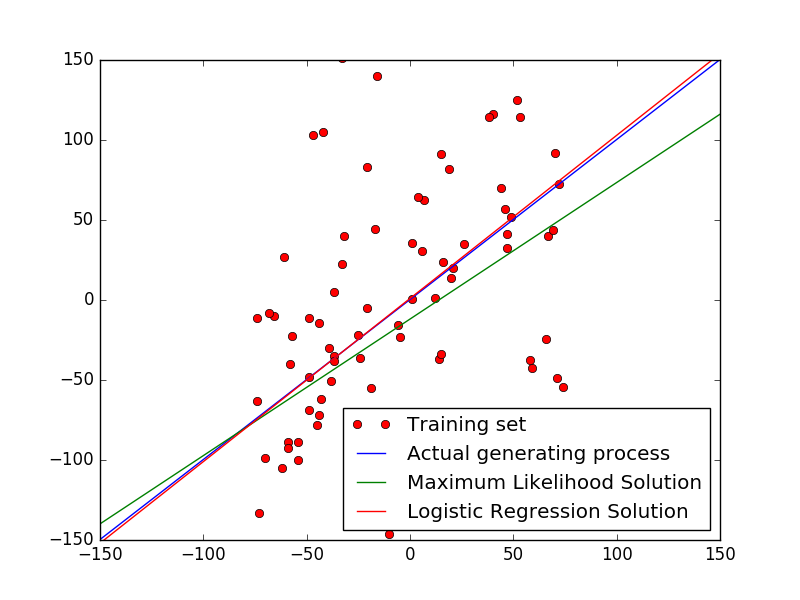
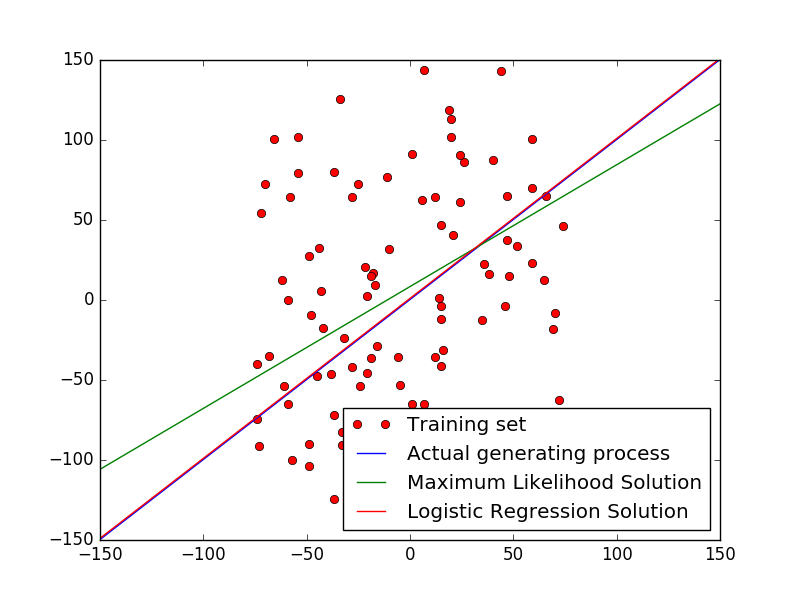
- refined logistic regression comparison

diff --git a/digits.py b/digits.py
@@ -391,9 +391,12 @@ def gen_lin_data_1d(theta, N, sigma):
 
     # Actual data generation
     random.seed(N)
-    x_raw = rint(x_limit * (random.random((N)) - .5)).astype(int64)
-    x = vstack((ones_like(x_raw), x_raw,))
+    x_train = rint(x_limit * (random.random((N)) - .5)).astype(int64)
+    x_test = rint(x_limit * (random.random((N)) - .5)).astype(int64)
+    x = vstack((ones_like(x_train), x_train,))
+    x_test = vstack((ones_like(x_test), x_test,))
     y = dot(theta, x) + norm.rvs(scale=sigma, size=N)
+    y_test = dot(theta, x_test) + norm.rvs(scale=sigma, size=N)
 
     plot(x[1, :], y, "ro", label="Training set")
 
@@ -405,8 +408,11 @@ def gen_lin_data_1d(theta, N, sigma):
     plot_line(theta_hat, -x_limit, x_limit, "g", "Maximum Likelihood Solution")
 
     # Logistic regression solution
-    theta_log = grad_descent(f, df, np.reshape(x_raw, (1,N)), np.reshape(y, (1,N)), ones((2, 1)), 0.00000001)[0].T
-    theta_log = np.reshape(theta_log, (2,))
+    labels = zeros(y.shape[0])
+    for i in range(y.shape[0]):
+        if y[i] > x_train[i]*theta[1] + theta[0]: labels[i] = 1
+    theta_log = grad_descent(f, df, np.reshape(hstack((x_train, y)), (2,N)), np.reshape(labels, (1,N)), ones((3, 1)), 0.00000001)[0].T
+    theta_log = np.array((theta_log[0,0]/theta_log[0,2],theta_log[0,1]/theta_log[0,2]))
 
     plot_line(theta_log, -x_limit, y_limit, "r", "Logistic Regression Solution")
 
@@ -414,6 +420,27 @@ def gen_lin_data_1d(theta, N, sigma):
     xlim([-x_limit, x_limit])
     ylim([-y_limit, y_limit])
     plt.savefig("logistic_vs_least_squares.png")
+
+    score_log = 0.
+    score_mle = 0.
+    for i in range(y_test.shape[0]):
+
+        correct_label = 0
+        line = dot(theta, x_test)[i]
+        if y_test[i] > line:
+            correct_label = 1
+
+        if correct_label == 1 and y_test[i] > dot(theta_hat, x_test)[i]:
+            score_mle += 1
+        if correct_label == 1 and y_test[i] > dot(theta_log, x_test)[i]:
+            score_log += 1
+        if correct_label == 0 and y_test[i] < dot(theta_hat, x_test)[i]:
+            score_mle += 1
+        if correct_label == 0 and y_test[i] < dot(theta_log, x_test)[i]:
+            score_log += 1
+
+    print("Performance on test set for MLE solution: " +str(score_mle/y_test.shape[0]))
+    print("Performance on test set for Logistic solution: " + str(score_log / y_test.shape[0]))
 
 def plot_line(theta, x_min, x_max, color, label):
     '''
